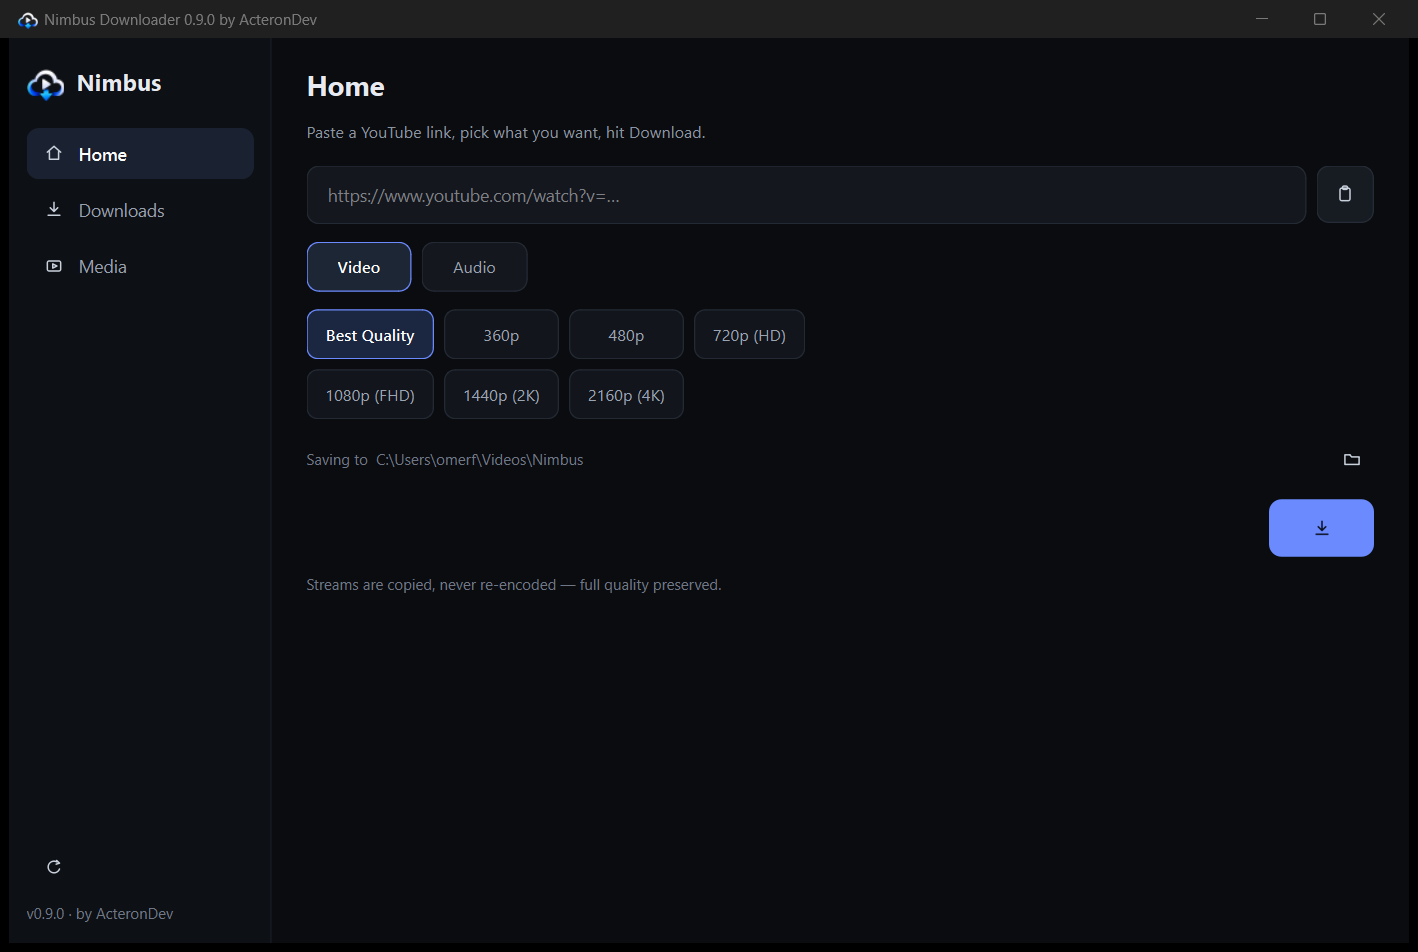
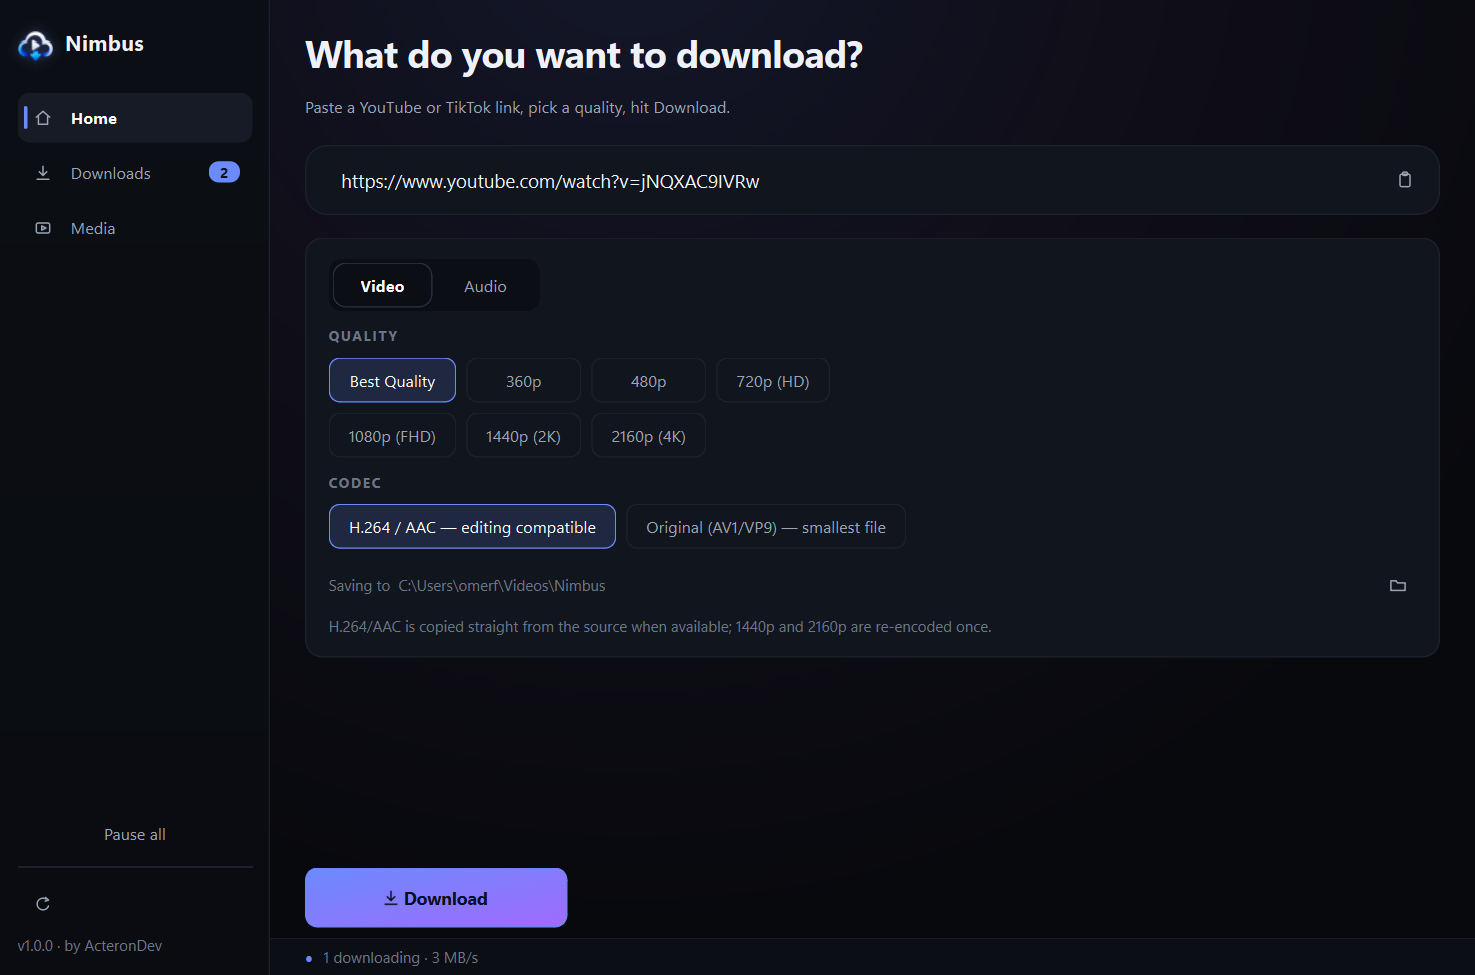
1.0.0: README, new screenshot, desktop-shortcut script, release notes

diff --git a/README.md b/README.md
@@ -17,13 +17,15 @@ Licensed under the [MIT License](LICENSE).
 
 - **YouTube and TikTok** links, with an in-app player that handles VP9 / AV1 / H.265 / opus
 - **Video or audio** from a single link
-- **Full quality, always** — streams are copied, never re-encoded
+- **Codec choice** — `H.264 / AAC` (the pair every editor imports: Premiere, Resolve,
+  After Effects) or `Original (AV1/VP9)` for the smallest file
 - **Visible quality chips** on YouTube: Best Quality / 360p / 480p / 720p (HD) / 1080p (FHD) / 1440p (2K) / 2160p (4K);
   single-format sites like TikTok collapse to Best Quality
-- **Parallel downloads** with pause, resume and cancel
-- **Media library** with thumbnails, plus delete that removes the file from disk
+- **Parallel downloads** with pause, resume, retry and cancel, live speed and ETA
+- **Media library** with list and grid views, search, thumbnails, and delete that removes the file from disk
 - **Link preview** — title, channel, duration and thumbnail before you download
-- Lightweight dark UI, fully keyboard friendly (Space to play/pause, Esc to go back)
+- Dark layered UI with a blue→violet accent, toast notifications and keyboard shortcuts
+  (Space to play/pause, Esc to go back)
 
 ## Download
 
@@ -38,8 +40,8 @@ Windows 10/11, 64-bit. If Windows shows "unknown publisher" on first launch, cho
 | Layer | Choice |
 |---|---|
 | Download engine | `yt-dlp` as a library (same process, so progress is exact) |
-| Media | bundled `ffmpeg` — stream copy only, no re-encode |
-| UI | PySide6 (Qt 6) with a vector icon set drawn in code |
+| Media | bundled `ffmpeg` — stream copy for H.264/AAC; 1440p/2160p H.264 is re-encoded once |
+| UI | PySide6 (Qt 6), theme tokens in `theme.py`, vector icons drawn in code |
 | Packaging | PyInstaller `--onedir` |
 
 The app talks to YouTube through yt-dlp's extractors; when YouTube changes something,
@@ -52,21 +54,23 @@ python -m venv .venv
 .venv/Scripts/pip install -r requirements.txt
 python fetch_vendor.py          # downloads ffmpeg + QuickJS into vendor/
 pyinstaller --noconfirm --clean --windowed --name Nimbus --onedir \
-  --collect-all yt_dlp --version-file version_info.txt --icon assets/nimbus.ico \
+  --collect-all yt_dlp --collect-all curl_cffi --version-file version_info.txt --icon assets/nimbus.ico \
   --add-data "vendor/ffmpeg/ffmpeg.exe;vendor/ffmpeg" \
   --add-data "vendor/js/qjs.exe;vendor/js" \
   --add-data "assets/mark.png;assets" --add-data "assets/nimbus.ico;assets" run.py
 ```
 
-`Nimbus.exe --selftest <url> [video|audio] [quality]` runs a headless download and writes
-the result to `%APPDATA%\Nimbus\selftest.json`.
+`Nimbus.exe --selftest <url> [video|audio] [quality] [h264|original]` runs a headless
+download and writes the result to `%APPDATA%\Nimbus\selftest.json`.
 
 ## Project layout
 
 ```
 nimbus/config.py      paths, settings, version
-nimbus/downloader.py  job queue, yt-dlp engine, pause/resume/cancel
-nimbus/ui.py          sidebar app: Home / Downloads / Media / Player
+nimbus/downloader.py  job queue, yt-dlp engine, pause/resume/cancel, H.264 fallback
+nimbus/ui.py          sidebar app: Home / Downloads / Media / Player, cards
+nimbus/theme.py       colours, spacing, durations and the one global stylesheet
+nimbus/widgets.py     badge, live progress, toasts, status bar, empty states
 nimbus/icons.py       QPainter-drawn icon set
 nimbus/update.py      yt-dlp updater
 assets/               logo, icon, screenshot
